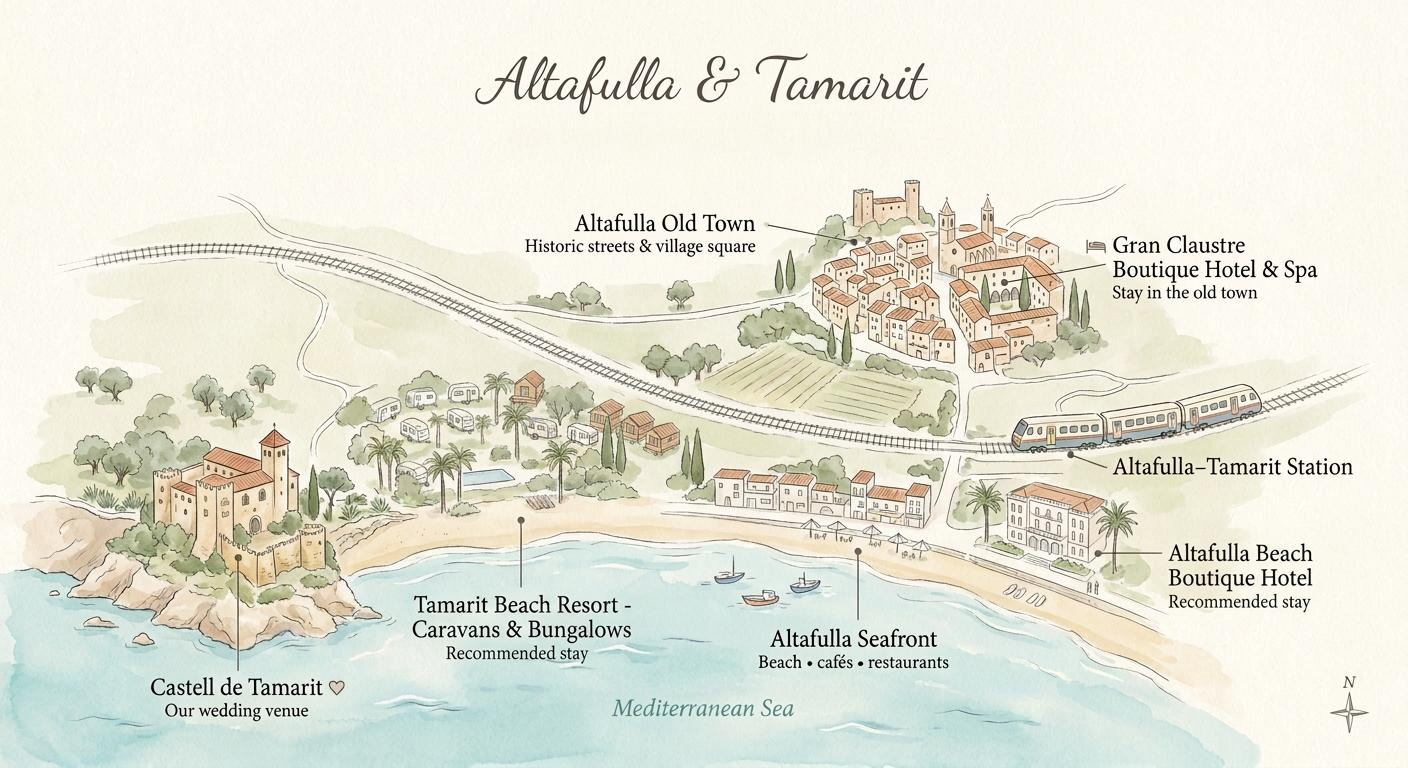
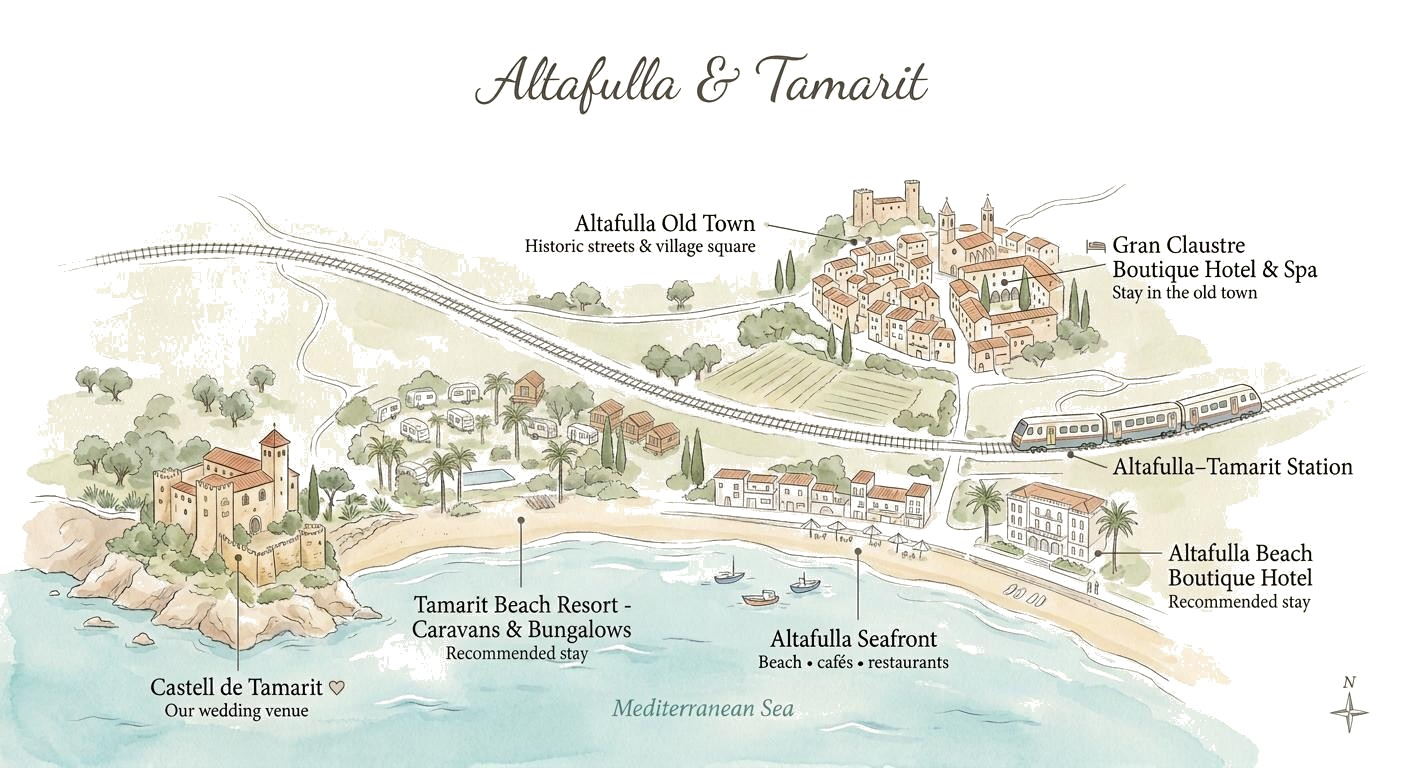
Put the map on white paper rather than showing the wallpaper behind it

diff --git a/styles.css b/styles.css
@@ -128,8 +128,9 @@ a { color: var(--burgundy); }
 .card h3 { font-family: var(--serif); font-weight: 500; font-size: 1.45rem; color: var(--burgundy); margin-bottom: .6rem; }
 .card p { color: var(--ink-soft); font-size: .92rem; line-height: 1.8; }
 
-/* Illustrated area map on Where to Stay */
-.map-wrap { max-width: 880px; margin: 0 auto 2.6rem; }
+/* Illustrated area map on Where to Stay — sits on plain white, not the wallpaper */
+.map-wrap { max-width: 880px; margin: 0 auto 2.6rem; background: #fff;
+  padding: clamp(.6rem,2vw,1.4rem); box-shadow: 0 18px 45px rgba(0,0,0,.18); }
 .map-frame { position: relative; }
 .area-map { width: 100%; height: auto; display: block; }
 /* invisible tap targets sitting over the numbered markers on the artwork */

diff --git a/404.html b/404.html
@@ -7,7 +7,7 @@
   <link rel="preconnect" href="https://fonts.googleapis.com">
   <link rel="preconnect" href="https://fonts.gstatic.com" crossorigin>
   <link href="https://fonts.googleapis.com/css2?family=Cormorant+Garamond:ital,wght@0,400;0,500;0,600;1,400&family=Italianno&family=Jost:wght@300;400;500&display=swap" rel="stylesheet">
-  <link rel="stylesheet" href="styles.css?v=74">
+  <link rel="stylesheet" href="styles.css?v=75">
 </head>
 <body>
   <main class="section" style="text-align:center; min-height:60vh; display:flex; flex-direction:column; justify-content:center">

diff --git a/faq.html b/faq.html
@@ -7,7 +7,7 @@
   <link rel="preconnect" href="https://fonts.googleapis.com">
   <link rel="preconnect" href="https://fonts.gstatic.com" crossorigin>
   <link href="https://fonts.googleapis.com/css2?family=Cormorant+Garamond:ital,wght@0,400;0,500;0,600;1,400&family=Italianno&family=Jost:wght@300;400;500&display=swap" rel="stylesheet">
-  <link rel="stylesheet" href="styles.css?v=74">
+  <link rel="stylesheet" href="styles.css?v=75">
 </head>
 <body>
   <header class="site-header">

diff --git a/index.html b/index.html
@@ -8,7 +8,7 @@
   <link rel="preconnect" href="https://fonts.googleapis.com">
   <link rel="preconnect" href="https://fonts.gstatic.com" crossorigin>
   <link href="https://fonts.googleapis.com/css2?family=Cormorant+Garamond:ital,wght@0,400;0,500;0,600;1,400&family=Italianno&family=Jost:wght@300;400;500&display=swap" rel="stylesheet">
-  <link rel="stylesheet" href="styles.css?v=74">
+  <link rel="stylesheet" href="styles.css?v=75">
 </head>
 <body>
   <header class="site-header">

diff --git a/local-area.html b/local-area.html
@@ -7,7 +7,7 @@
   <link rel="preconnect" href="https://fonts.googleapis.com">
   <link rel="preconnect" href="https://fonts.gstatic.com" crossorigin>
   <link href="https://fonts.googleapis.com/css2?family=Cormorant+Garamond:ital,wght@0,400;0,500;0,600;1,400&family=Italianno&family=Jost:wght@300;400;500&display=swap" rel="stylesheet">
-  <link rel="stylesheet" href="styles.css?v=74">
+  <link rel="stylesheet" href="styles.css?v=75">
 </head>
 <body>
   <header class="site-header">

diff --git a/register-interest.html b/register-interest.html
@@ -7,7 +7,7 @@
   <link rel="preconnect" href="https://fonts.googleapis.com">
   <link rel="preconnect" href="https://fonts.gstatic.com" crossorigin>
   <link href="https://fonts.googleapis.com/css2?family=Cormorant+Garamond:ital,wght@0,400;0,500;0,600;1,400&family=Italianno&family=Jost:wght@300;400;500&display=swap" rel="stylesheet">
-  <link rel="stylesheet" href="styles.css?v=74">
+  <link rel="stylesheet" href="styles.css?v=75">
 </head>
 <body>
   <header class="site-header">

diff --git a/schedule.html b/schedule.html
@@ -7,7 +7,7 @@
   <link rel="preconnect" href="https://fonts.googleapis.com">
   <link rel="preconnect" href="https://fonts.gstatic.com" crossorigin>
   <link href="https://fonts.googleapis.com/css2?family=Cormorant+Garamond:ital,wght@0,400;0,500;0,600;1,400&family=Italianno&family=Jost:wght@300;400;500&display=swap" rel="stylesheet">
-  <link rel="stylesheet" href="styles.css?v=74">
+  <link rel="stylesheet" href="styles.css?v=75">
 </head>
 <body>
   <header class="site-header">

diff --git a/where-to-stay.html b/where-to-stay.html
@@ -7,7 +7,7 @@
   <link rel="preconnect" href="https://fonts.googleapis.com">
   <link rel="preconnect" href="https://fonts.gstatic.com" crossorigin>
   <link href="https://fonts.googleapis.com/css2?family=Cormorant+Garamond:ital,wght@0,400;0,500;0,600;1,400&family=Italianno&family=Jost:wght@300;400;500&display=swap" rel="stylesheet">
-  <link rel="stylesheet" href="styles.css?v=74">
+  <link rel="stylesheet" href="styles.css?v=75">
 </head>
 <body>
   <header class="site-header">
